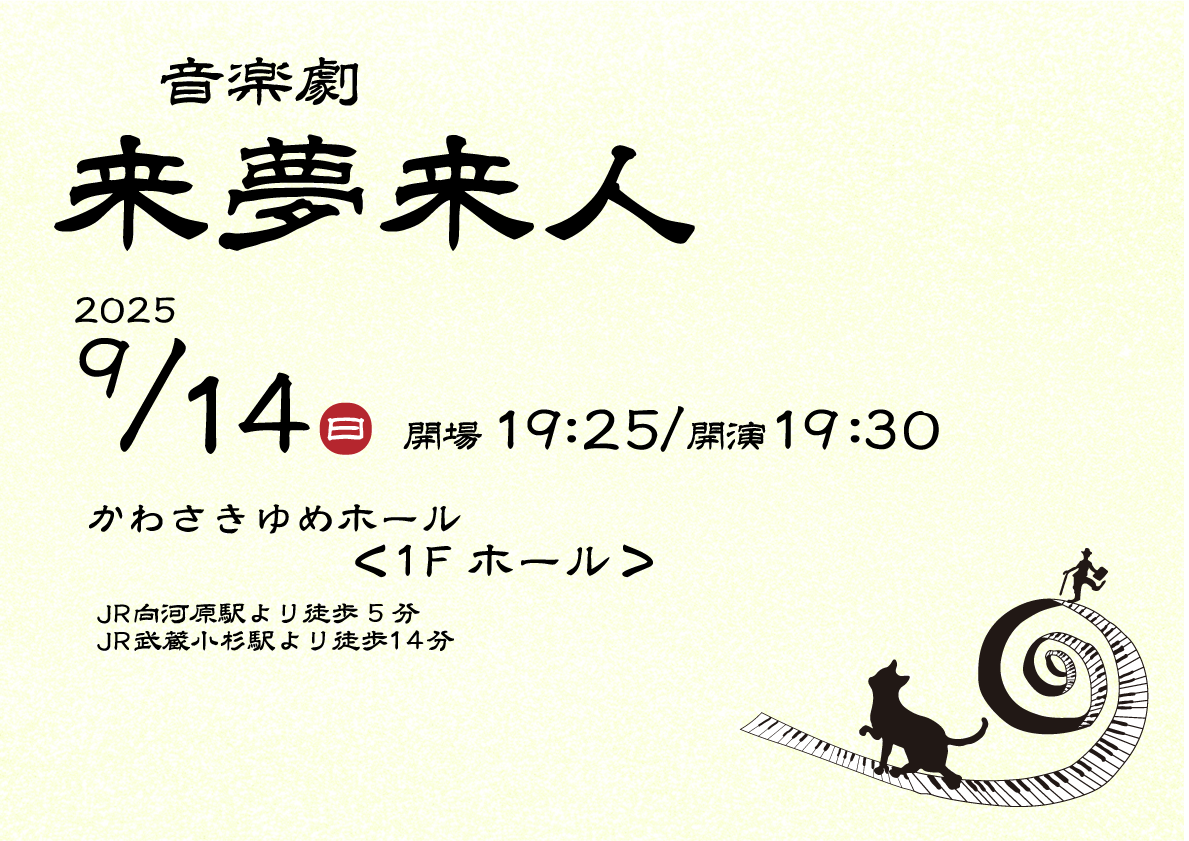
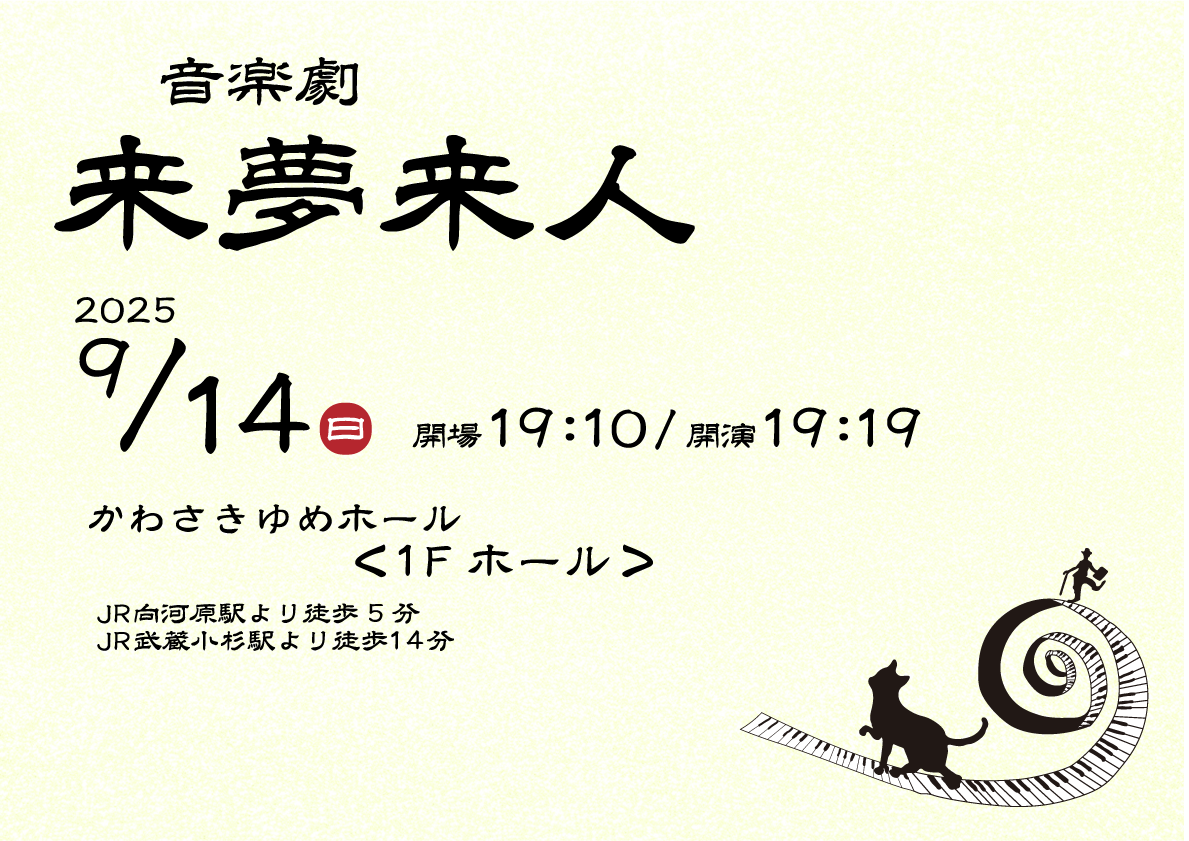
250902limelight告知

Changed region(s): [[0.3423, 0.4637, 0.8091, 0.5565]]

diff --git a/news_00008.html b/news_00008.html
@@ -47,11 +47,11 @@
         <main>
             <article id="news-art">
                 <section class="site-map">
-                    <p><a href="index.html">Top</a> > <a href="news.html">News</a> > 2025.09.XX</p>
+                    <p><a href="index.html">Top</a> > <a href="news.html">News</a> > 2025.09.02</p>
                 </section>
                 <section class="news_page_title">
                     <h1 class="news_title">2025年9月14日(日)武蔵小杉にて<br>音楽劇「来夢来人」に出演します</h1>
-                    <p class="news-date">2025.09.XX</p>
+                    <p class="news-date">2025.09.02</p>
                 </section>
                 <section class="news-contents-box">
                     <img src="images/news/news_00008.png">
@@ -59,16 +59,11 @@
                         「来夢来人」は、こころに響く美しい音のもとで、夢先案内人チャッポランと繰り広げられる音楽劇です✨
                     </p>
                     <p>
-                        <br>テキストテキストテキストテキストテキストテキストテキストテキストテキストテキスト
-                        <br>テキストテキストテキストテキストテキストテキストテキストテキストテキストテキスト
+                        今回もどんな出会いがあるのか！！ぜひ楽しみにお越しください❣
                     </p>
                     <p>
-                        テキストテキストテキストテキストテキストテキストテキストテキストテキストテキスト
-                    </p>
-                    <p>
-                        先月から12月までチケット制になりました♪
+                        そして前回から12月までチケット制になりました♪
                         <br>下記のフォームからご予約いただいた方には、集めると楽しいあなた専用のスタンプ式電子チケット(下の画像のようなもの)を送らせていただきますね🎈
-                        <br>テキストテキストテキストテキストテキストテキストテキストテキストテキストテキスト
                     </p>
                     <p>
                         みなさまのお越しをこころよりお待ちしております✨
@@ -79,7 +74,7 @@
                     </div>
                     <div class="news-cm">
                         <div class="news-ov">
-                            <p>時間：開場19:25/開演19:30</p>
+                            <p>時間：開場19:10/開演19:19</p>
                             <p>
                                 会場：かわさきゆめホール　1F
                                 <br>　　　〒211-0011 神奈川県川崎市中原区下沼部1880
@@ -117,9 +112,6 @@
                 <section class="news-btn-box"> 
                     <div class="news-btn-center">
                         <a href="news.html">News一覧へ</a>
-                    </div>
-                    <div class="news-btn-right">
-                        <a href="news_00006.html">前のNewsへ</a> 
                     </div>
                     <div class="news-btn-right">
                         <a href="news_00007.html">前のNewsへ</a> 

diff --git a/index.html b/index.html
@@ -65,7 +65,7 @@
                             <h1>News</h1>
                             <div class="tn-scroll">
                                 <div class="tn-contents">
-                                    <a href="news_00008.html">2025.09.XX<br>2025年9月14日(日)武蔵小杉にて音楽劇「来夢来人」に出演します<img class="tn-boximg" src="images/news/news_00008.png"></a>
+                                    <a href="news_00008.html">2025.09.02<br>2025年9月14日(日)武蔵小杉にて音楽劇「来夢来人」に出演します<img class="tn-boximg" src="images/news/news_00008.png"></a>
                                 </div>
                                 <div class="tn-contents">
                                     <a href="news_00007.html">2025.08.09<br>2025年8月24日(日)武蔵小杉にて音楽劇「来夢来人」に出演します<img class="tn-boximg" src="images/news/news_00007.png"></a>

diff --git a/works.html b/works.html
@@ -54,8 +54,10 @@
                 <section class="page_title">
                     <h1>Works</h1>
                     <p>
-                        8/24「音楽劇 来夢来人」以降のWorkはリンクより詳細を確認できます。
-                        <br>8/24以前のWorkにつきましても現在作成中ですので、今しばらくお待ちください！
+                        2025年8月24日「音楽劇 来夢来人」以降のWorkは
+                        <br class="br-sp">リンクより詳細をご覧いただけます。
+                        <br>8月24日以前のWorkにつきましても作成中ですので、
+                        <br class="br-sp">今しばらくお待ちください！
                     </p>
                 </section>
                 <ul class="works-box">

diff --git a/news.html b/news.html
@@ -63,7 +63,7 @@
                                     <a href="news_00008.html"><img id="latest-news-img" src="images/news/news_00008.png"></a>
                                 </div>
                                 <div id="latest-news-date">
-                                    <p>2025.09.XX</p>
+                                    <p>2025.09.02</p>
                                 </div>
                                 <div id="latest-news-ct">
                                     <a href="news_00007.html">2025年8月24日(日)武蔵小杉にて音楽劇「来夢来人」に出演します</a>

diff --git a/CSS/style.css b/CSS/style.css
@@ -32,6 +32,10 @@ PC用スタイル
     }
 
     /*===全ページ共通要素===*/
+    /*PC用のブレークポイント*/
+    .br-sp{
+        display: none;
+    }
     /*フッター*/
     footer{
         background-color: #F39518;
@@ -1703,6 +1707,10 @@ PC用スタイル
         sans-serif;;
     }
     /*===全ページ共通要素===*/
+    /*スマホ用のブレークポイント*/
+    .br-pc{
+        display: block;
+    }
     /*ナビゲーションのリンクの装飾設定*(ヘッダー)*/
     .hbg-btn-open{
         position: absolute;

diff --git a/works_00052.html b/works_00052.html
@@ -2,7 +2,7 @@
 <!DOCTYPE html>
 <html>
     <head>
-        <title>2025年月24日(日)音楽劇「来夢来人」-布川仁美 official website</title>
+        <title>2025年8月24日(日)音楽劇「来夢来人」-布川仁美 official website</title>
         <link rel="icon" href="images/NH_favicon.svg">
         <link rel="stylesheet" href="CSS/style.css">
         <link rel="stylesheet" href="CSS/slick-ga.css">
